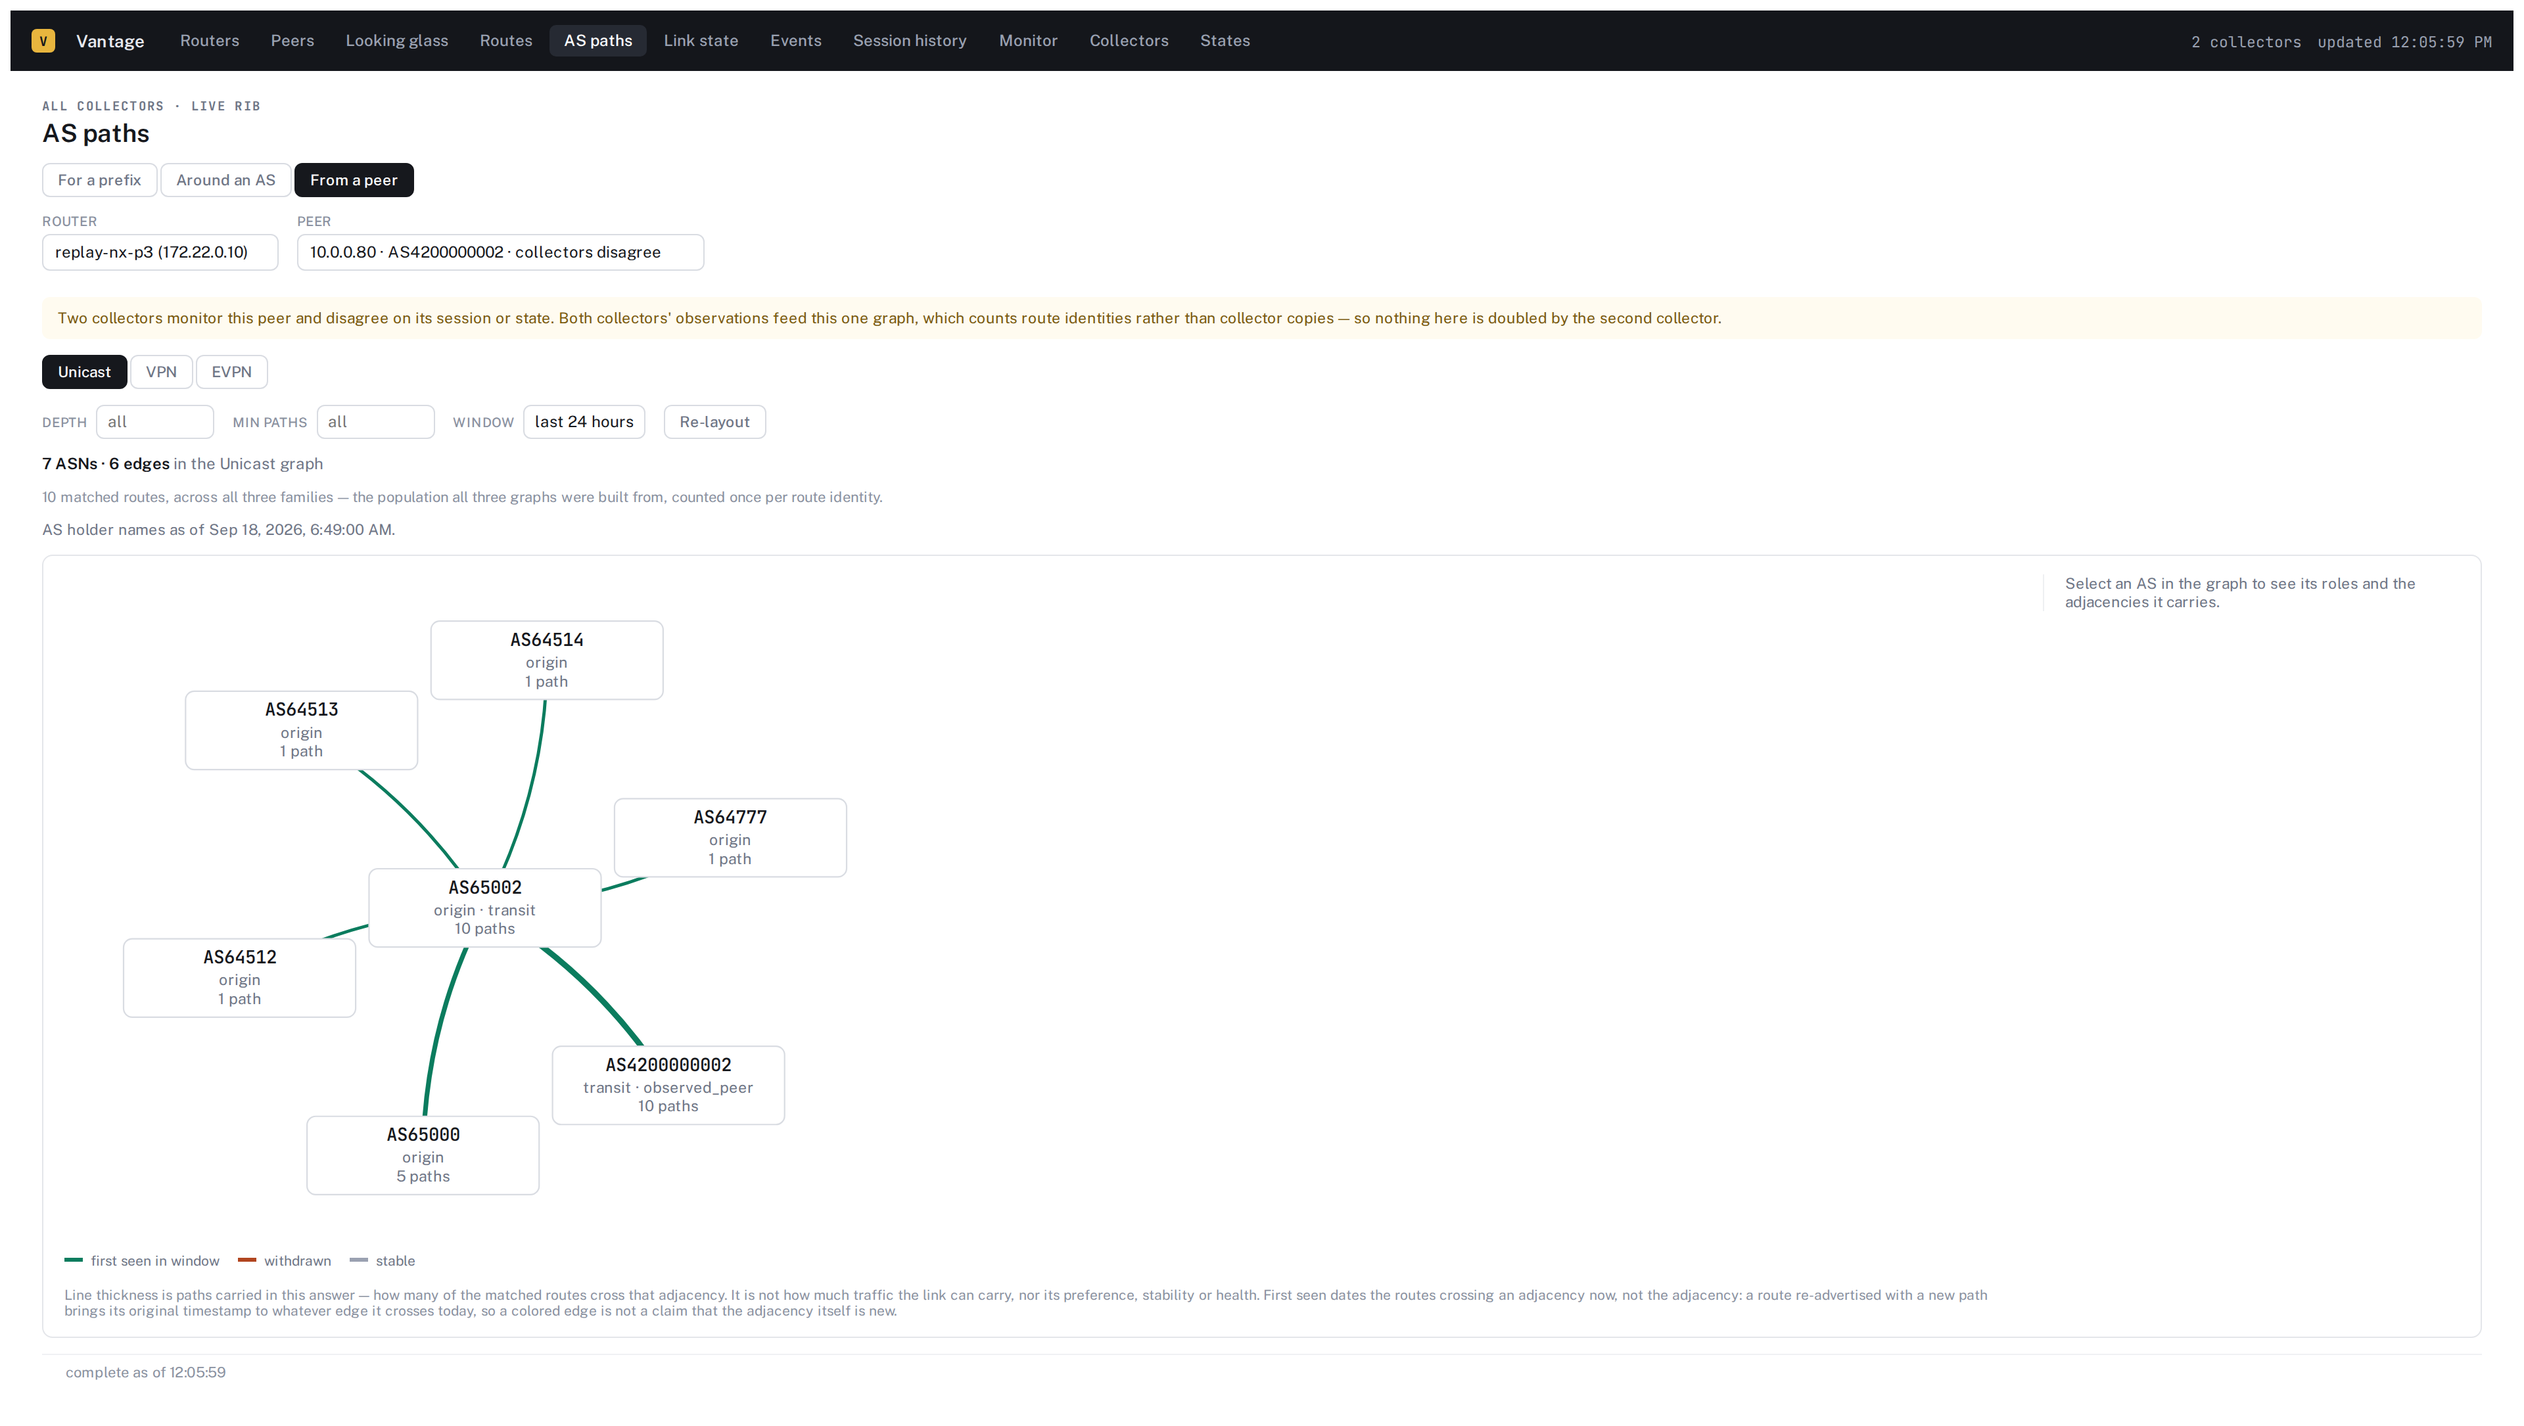
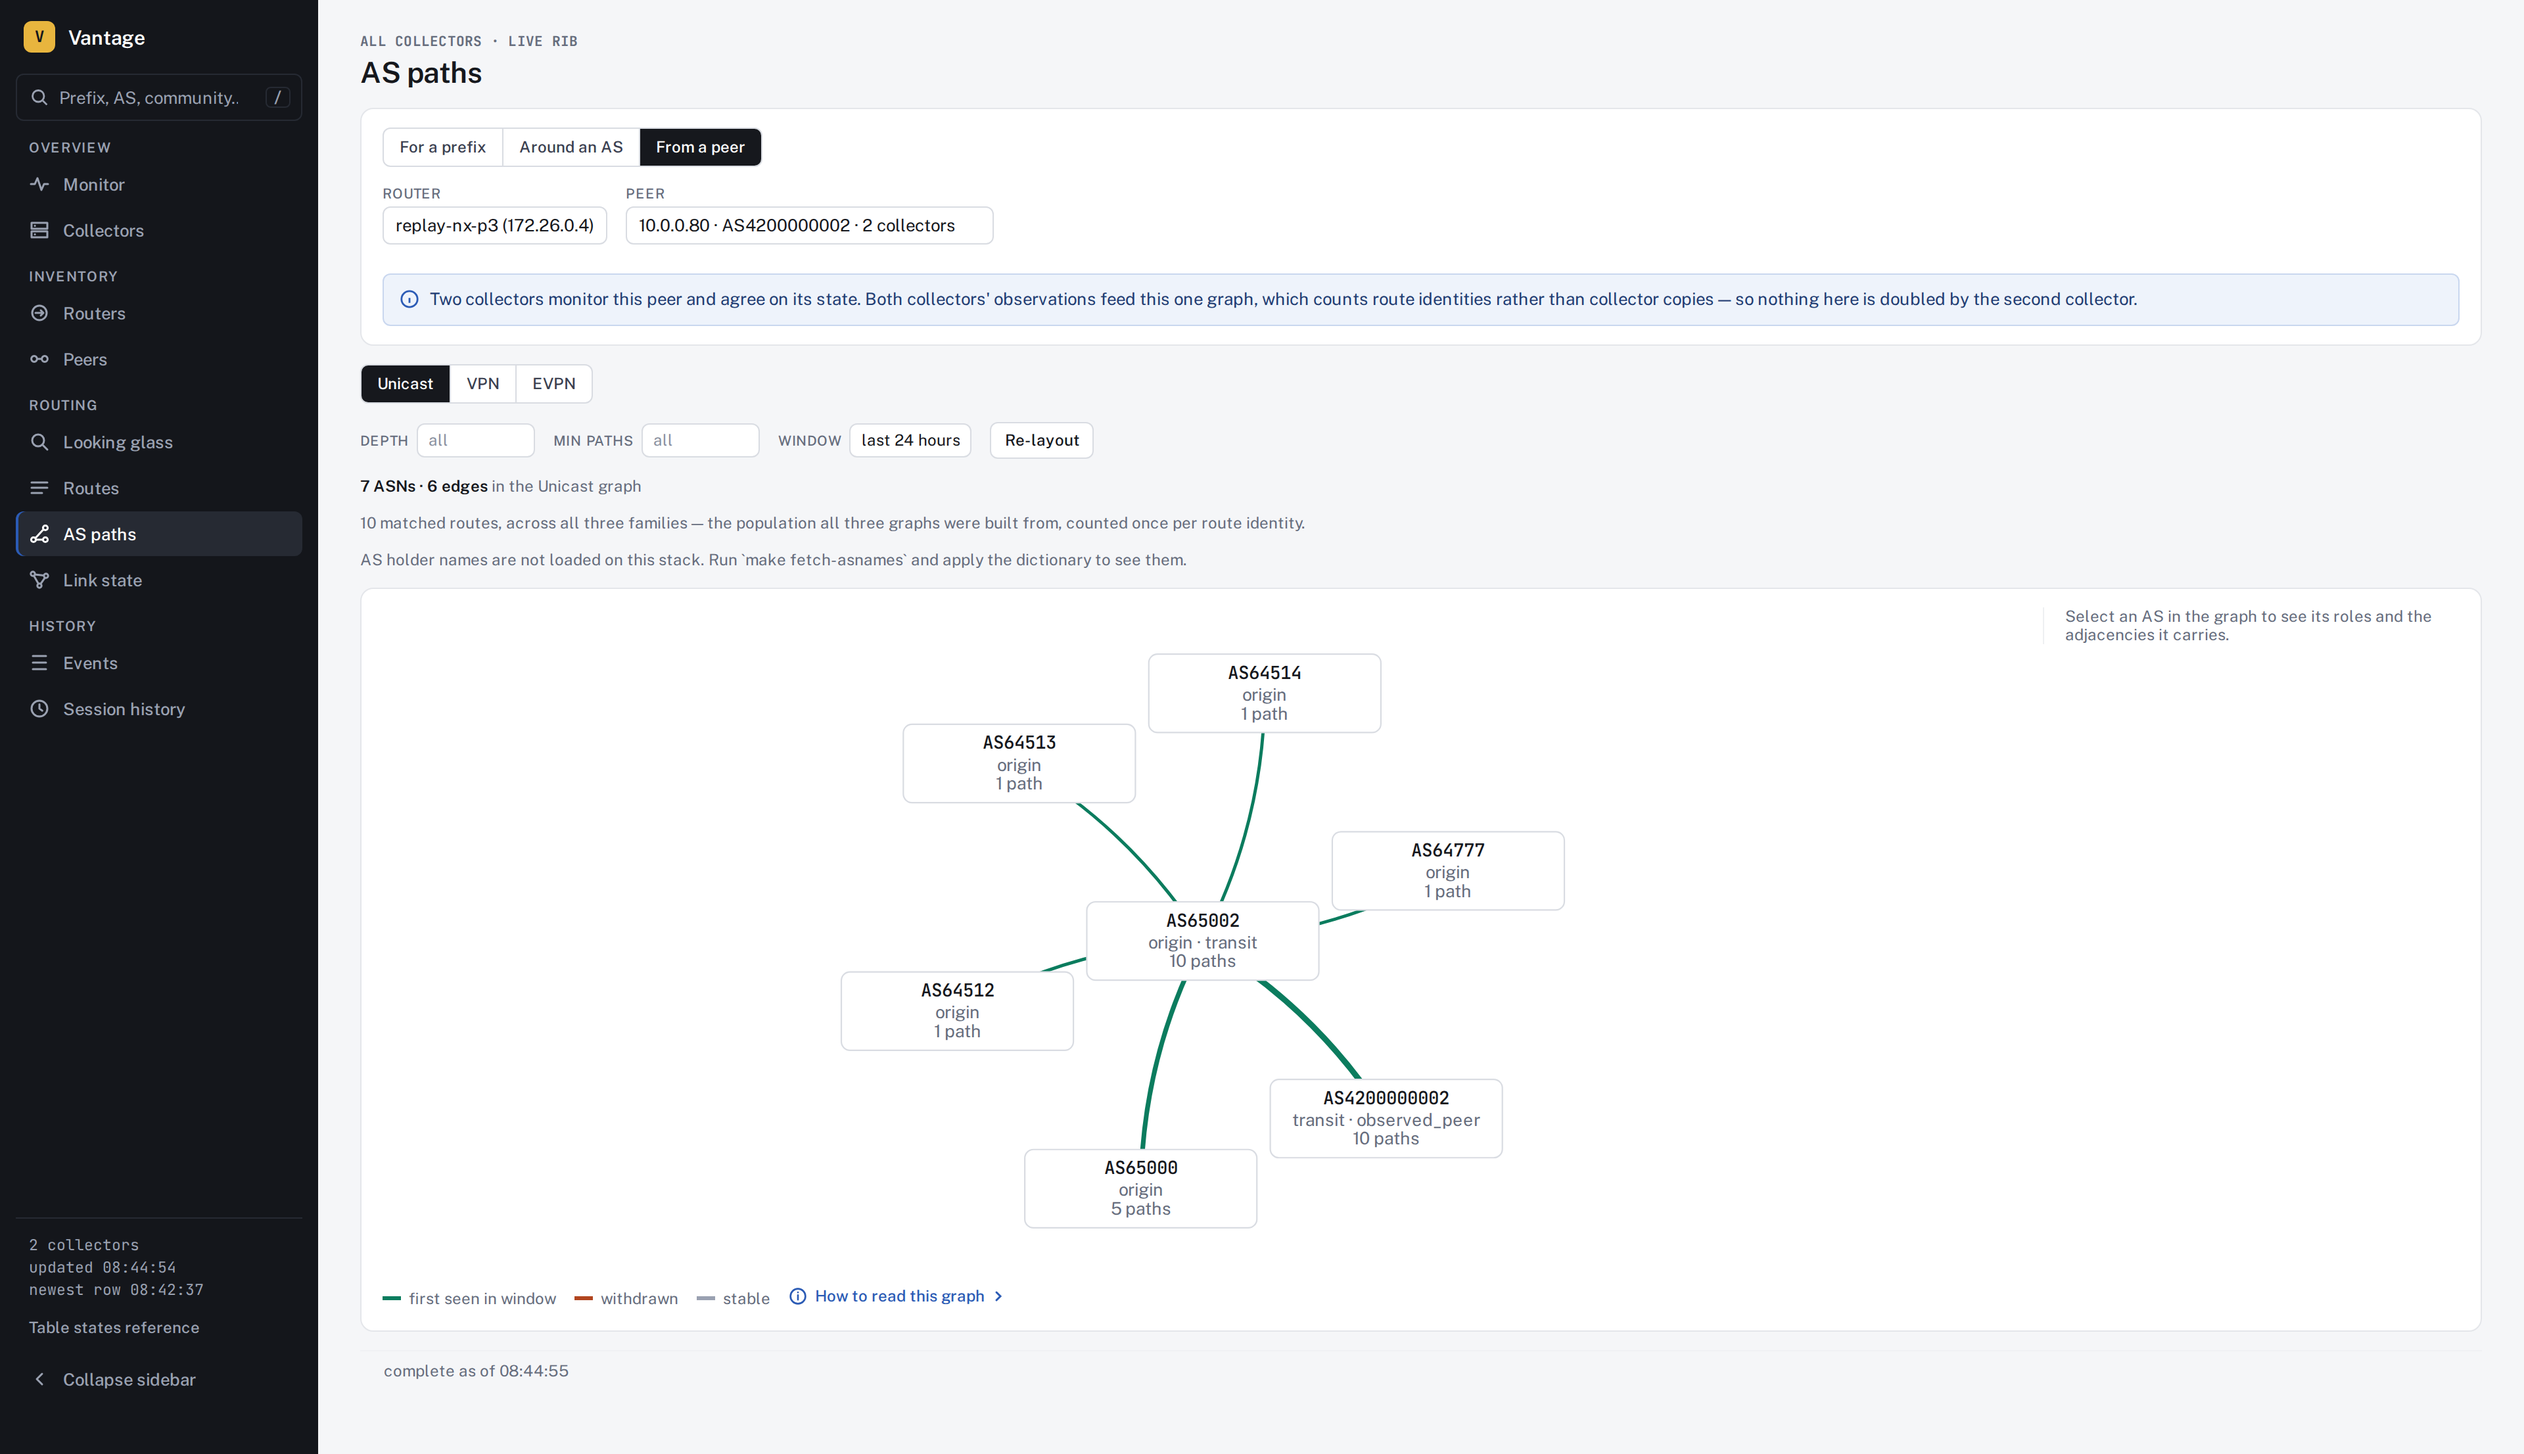
UI: last layout fixes from the live walk-through; re-capture docs/images
- AS paths: the question card wraps the form and the peer pickers.
  In "From a peer" mode the pickers had rendered below a card holding
  only the mode buttons.
- Collectors: the tiles are a grid, so the seventh no longer stretches
  across the card on a row of its own.
- Peer detail: each rib view's Initial dump is a card, side by side.
  They had floated unstyled under the panels.
- docs/images: all eleven screens re-captured with
  `npm --prefix ui run capture` against the dev stack, from the bundle
  the rebuilt API image embeds.

diff --git a/ui/src/views/PeerDetailView.vue b/ui/src/views/PeerDetailView.vue
@@ -588,6 +588,7 @@ const endpoints = computed(() => {
       <!-- One section per rib row. The dump-state list is a per-rib fact (a
            peer can be dumping pre-policy and complete post-policy), so it
            belongs once per row. -->
+        <div class="rib-views">
         <section v-for="row in peerRows" :key="sectionKey(row)" class="rib-view">
           <h2 class="rib-label mono">{{ row.collector }} · {{ row.rib }}</h2>
 
@@ -605,6 +606,7 @@ const endpoints = computed(() => {
             </li>
           </ul>
         </section>
+        </div>
       </template>
 
       <!-- Every table's footer states completeness; this screen had been
@@ -651,12 +653,13 @@ h2 { margin: 0; font: 600 var(--text-body) var(--font-ui); color: var(--ink); }
 .when { color: var(--muted); }
 .why { color: var(--muted); margin-left: auto; }
 .note { margin: 0; color: var(--muted); font: 400 var(--text-sm) var(--font-ui); }
-.rib-view { display: flex; flex-direction: column; gap: 8px; }
-/* A visible seam between two rib views of the same peer, not just
-   whitespace -- when peerRows has one row (the common case today) this
-   never renders, since there is only one .rib-view and no sibling above it
-   to draw the rule against. */
-.rib-view + .rib-view { padding-top: 12px; border-top: 1px solid var(--divider); }
+/* One card per rib view, side by side where they fit. They had floated
+   unstyled under the panels, which read as content that failed to load. */
+.rib-views { display: grid; grid-template-columns: repeat(auto-fill, minmax(min(260px, 100%), 1fr)); gap: 14px; }
+.rib-view {
+  display: flex; flex-direction: column; gap: 8px; padding: 14px 16px;
+  border: 1px solid var(--line); border-radius: var(--radius-lg); background: var(--surface);
+}
 .rib-label {
   margin: 0; padding: 1px 7px; align-self: flex-start; border-radius: var(--radius-sm);
   background: var(--neutral-chip); color: var(--muted); font: 500 var(--text-label) var(--font-ui);

diff --git a/ui/src/views/TopologyView.vue b/ui/src/views/TopologyView.vue
@@ -270,6 +270,9 @@ function select(asn: number) {
          over history, and the graph's own note says the same at length. -->
     <ScreenHeader title="AS paths" :eyebrow="['all collectors', 'live rib']" />
 
+    <!-- One card around the question, whichever mode asks it: the form for
+         a prefix or an AS, the pickers for a peer. -->
+    <div class="ask">
     <form class="scope" @submit.prevent="submit()">
       <div class="modes seg" role="group" aria-label="Draw">
         <button
@@ -319,6 +322,7 @@ function select(asn: number) {
         by the second collector.
       </template>
     </ScopePicker>
+    </div>
 
     <!-- Nothing is answered until something is asked. /v1/topology refuses an
          unscoped request outright -- its 400 says the alternative "would draw
@@ -549,10 +553,11 @@ function select(asn: number) {
 .screen { padding: var(--page-y) var(--page-x) 48px; display: flex; flex-direction: column; gap: 14px; }
 h1 { margin: 0; font: 600 var(--text-page) var(--font-ui); color: var(--ink); }
 /* The question as a card, the shape Looking glass and Routes give theirs. */
-.scope {
-  display: flex; gap: 10px; align-items: center; flex-wrap: wrap;
+.ask {
+  display: flex; flex-direction: column; gap: 14px;
   padding: 14px 16px; border: 1px solid var(--line); border-radius: var(--radius-lg); background: var(--surface);
 }
+.scope { display: flex; gap: 10px; align-items: center; flex-wrap: wrap; }
 .scope input.term { padding: 7px 10px; font-size: var(--text-body); min-width: 260px; }
 .scope label { font: 400 var(--text-sm) var(--font-ui); color: var(--muted); display: flex; gap: 5px; align-items: center; }
 

diff --git a/ui/src/views/CollectorsView.vue b/ui/src/views/CollectorsView.vue
@@ -504,7 +504,9 @@ function routerRowAttrs(row: CollectorRouter): Record<string, string> {
   color: var(--bad-2); font: 400 var(--text-sm) var(--font-ui);
 }
 .quiet { margin: 0; color: var(--muted); font: 400 var(--text-sm) var(--font-ui); }
-.tiles { display: flex; flex-wrap: wrap; gap: 8px; }
+/* A grid, not a wrapping row: seven tiles in a row of six left the seventh
+   stretched across the card on a line of its own. */
+.tiles { display: grid; grid-template-columns: repeat(auto-fill, minmax(124px, 1fr)); gap: 8px; }
 .tiles :deep(.tile) { min-width: 110px; padding: 8px 10px; }
 .tiles :deep(.value) { font-size: 17px; }
 .activity { margin: 0; display: flex; flex-direction: column; gap: 4px; }
